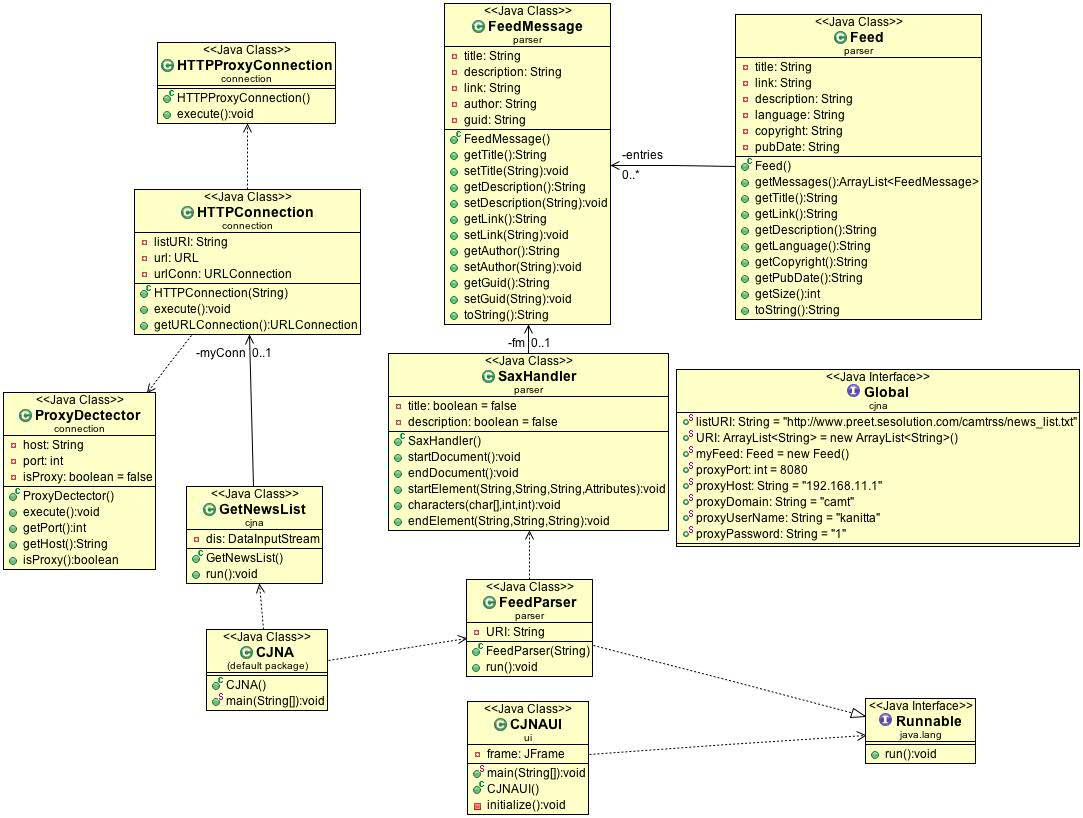
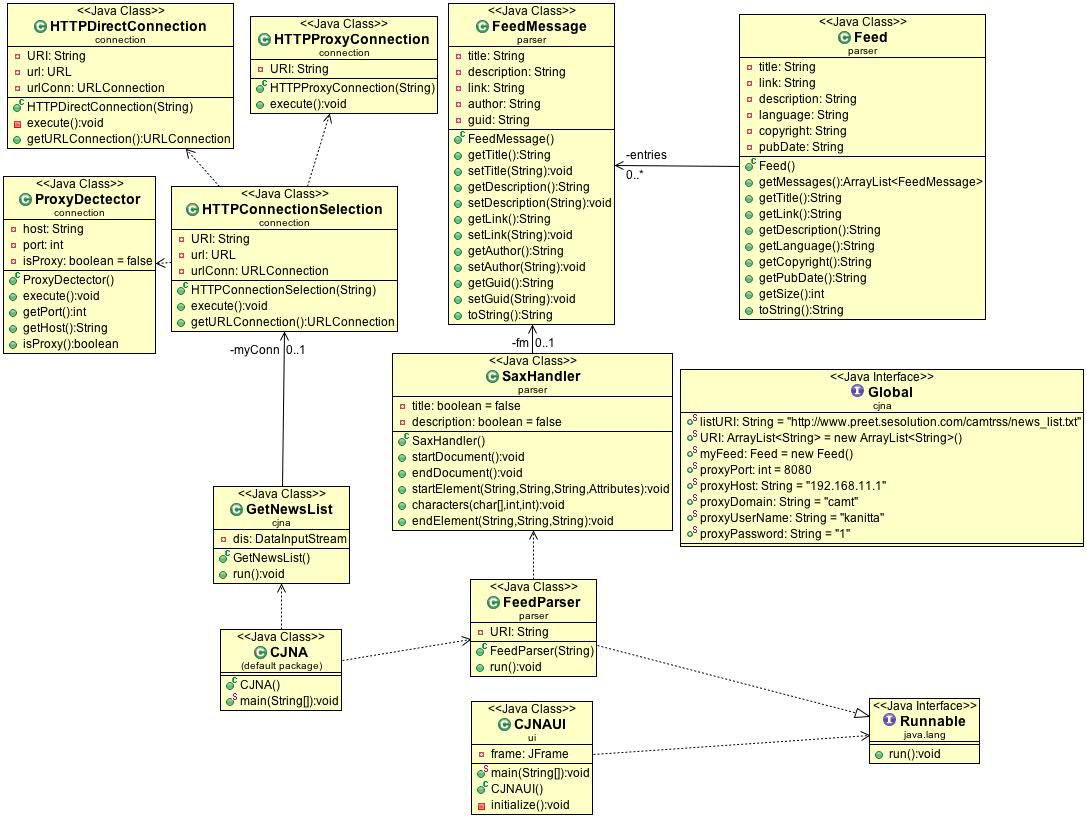
added connection selection

diff --git a/CJNA/src/connection/HTTPConnectionSelection.java b/CJNA/src/connection/HTTPConnectionSelection.java
@@ -5,14 +5,14 @@ import java.net.*;
  * @author Pree
  *
  */
-public class HTTPConnection {
+public class HTTPConnectionSelection {
 	
-	private String listURI;
+	private String URI;
  	private URL url;
     private URLConnection urlConn; 
     
-	public HTTPConnection(String listURI) {
-		this.listURI = listURI;
+	public HTTPConnectionSelection(String URI) {
+		this.URI = URI;
 		this.execute();
 	}
 	
@@ -21,15 +21,12 @@ public class HTTPConnection {
 			ProxyDectector pd = new ProxyDectector();
 			if(!pd.isProxy()) {
 				System.out.println("Connecting without proxy...");
-				url = new URL(this.listURI);
-				urlConn = url.openConnection();
-				urlConn.setDoInput(true); 
-				urlConn.setUseCaches(false);
+				HTTPDirectConnection dc = new HTTPDirectConnection(this.URI);
+				this.urlConn = dc.getURLConnection();
 			}
 			else if(pd.isProxy()) {
-				System.out.println("Connecting through proxy...");
-	    		HTTPProxyConnection proxy = new HTTPProxyConnection();
-	    		proxy.execute();	
+				System.out.println("Connecting with proxy...");
+	    		HTTPProxyConnection proxy = new HTTPProxyConnection(this.URI);
 			}
 			else {
 				System.out.println("Error: No internet Connection.");

diff --git a/CJNA/src/connection/HTTPProxyConnection.java b/CJNA/src/connection/HTTPProxyConnection.java
@@ -23,8 +23,10 @@ import java.util.List;
  */
 public class HTTPProxyConnection {
 	
-	public HTTPProxyConnection() {
-		
+	private String URI;
+	public HTTPProxyConnection(String URI) throws HttpException, IOException {
+		this.URI = URI;
+		this.execute();
 	}
 	
 	public void execute() throws HttpException, IOException {
@@ -41,7 +43,7 @@ public class HTTPProxyConnection {
 
         proxyClient.getParams().setParameter(AuthPolicy.AUTH_SCHEME_PRIORITY, authPrefs);
 
-        HttpMethod get = new GetMethod(Global.listURI);
+        HttpMethod get = new GetMethod(this.URI);
         int status = proxyClient.executeMethod(get);
         
         BufferedReader reader = new BufferedReader(new InputStreamReader(get.getResponseBodyAsStream()));

diff --git a/CJNA/src/connection/HTTPDirectConnection.java b/CJNA/src/connection/HTTPDirectConnection.java
@@ -1,0 +1,31 @@
+package connection;
+
+import java.io.IOException;
+import java.net.URL;
+import java.net.URLConnection;
+
+/**
+ * @author Pree
+ *
+ */
+public class HTTPDirectConnection {
+	private String URI;
+ 	private URL url;
+    private URLConnection urlConn; 
+    
+	public HTTPDirectConnection(String URI) throws IOException {
+		this.URI = URI;
+		this.execute();
+	}
+	
+	private void execute() throws IOException {
+		url = new URL(this.URI);
+		urlConn = url.openConnection();
+		urlConn.setDoInput(true); 
+		urlConn.setUseCaches(false);
+	}
+	
+	public URLConnection getURLConnection() {
+		return this.urlConn;
+	}
+}// end class HTTPDirectConnection

diff --git a/CJNA/src/cjna/GetNewsList.java b/CJNA/src/cjna/GetNewsList.java
@@ -1,6 +1,6 @@
 package cjna;
 import java.io.DataInputStream;
-import connection.HTTPConnection;
+import connection.HTTPConnectionSelection;
 
 /**
  * @author Pree
@@ -10,10 +10,10 @@ import connection.HTTPConnection;
 public class GetNewsList extends Thread {
 		
 		private DataInputStream dis;
-		private HTTPConnection myConn;
+		private HTTPConnectionSelection myConn;
 	 
 	    public GetNewsList() {
-	    	myConn = new HTTPConnection(Global.listURI);
+	    	myConn = new HTTPConnectionSelection(Global.listURI);
 	    }
 	    
 		@Override
